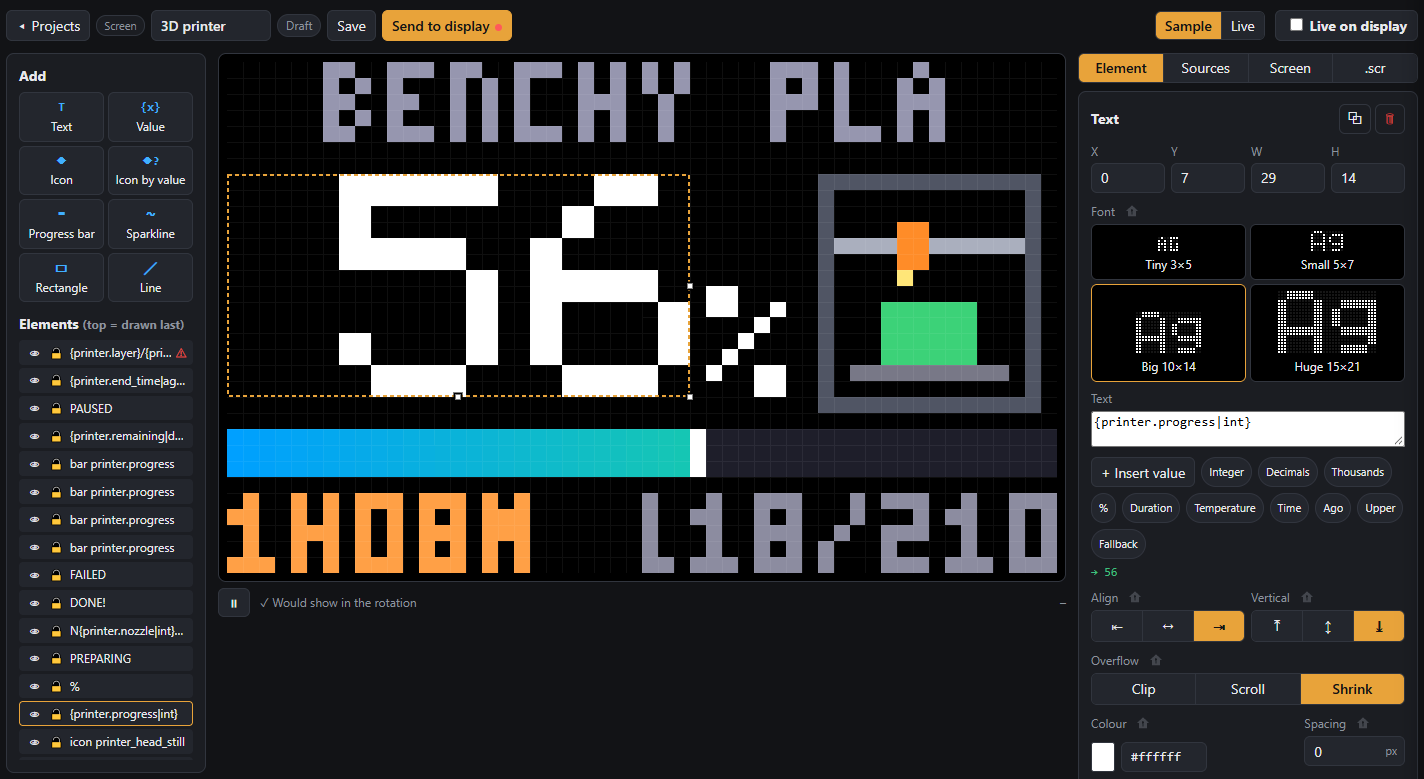
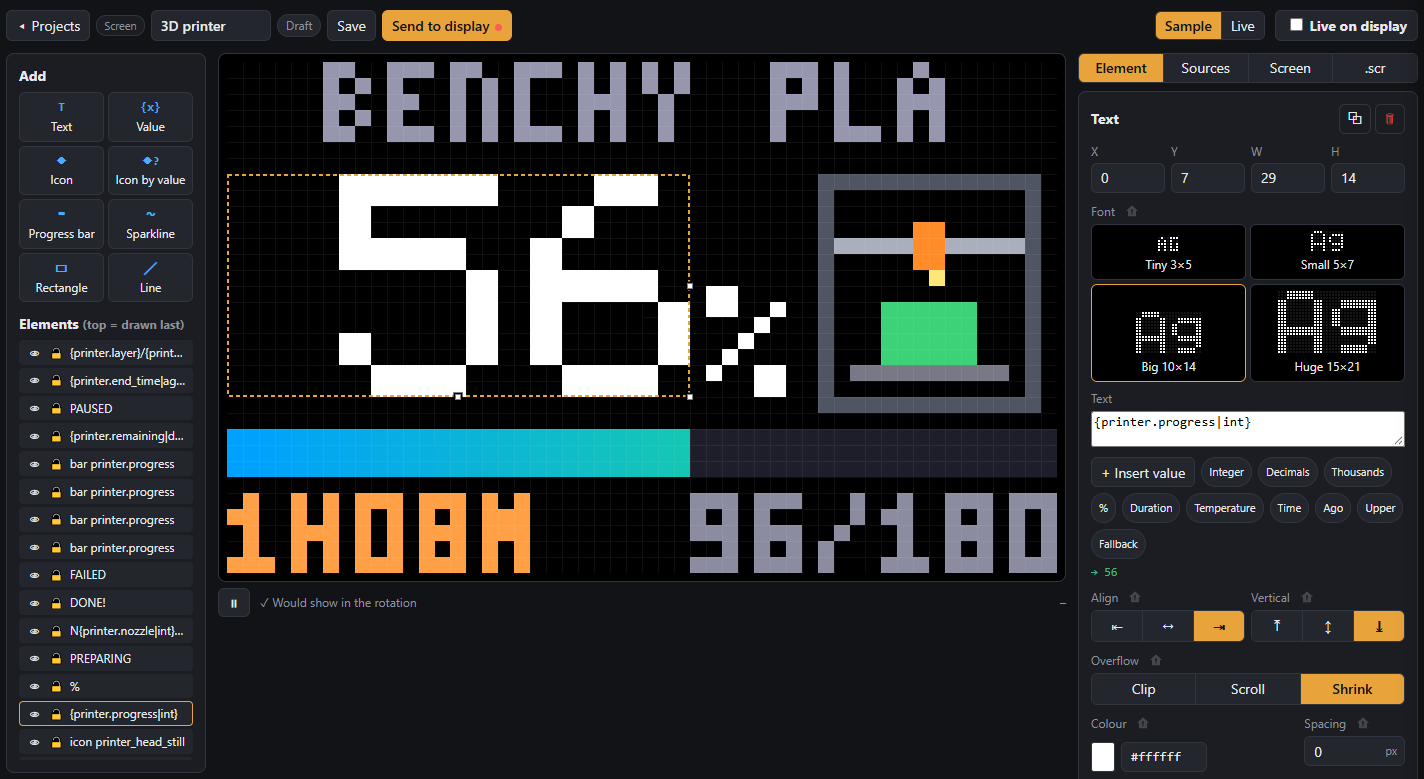
Docs: screenshots without warnings or a no-HA notice
- Hero shot: layer 96/180 fits its box, so no element is flagged.
- Sources: the 3D printer's bindings (sensor states and an attribute, generic
  entity ids), cropped to the value cards.

diff --git a/README.md b/README.md
@@ -33,15 +33,15 @@ broker and Home Assistant for any number of displays. You get:
 screens, exposing settings, animations, icons and playlists.
 
 ### Screenshots
-**Screen editor**: the 3D printer example mid-print, with sample values. Elements on the left, the 52×32 preview in
+**Screen editor**: the 3D printer example mid-print (56 %, layer 96 of 180), with sample values. Elements on the left, the 52×32 preview in
 the middle (the print head rises as the part grows), the selected element's settings on the right.
 
 <img src="docs/img/screen-editor.png" alt="Screen editor: a 3D printer screen at 56 % with the print name, a printer drawing, a progress bar, time left and layers" width="900">
 
-**Sources**: each value the screen uses, bound to Home Assistant (here, to the current member of a group of tickers),
+**Sources**: each value the 3D printer screen uses, bound to a Home Assistant entity's state or one of its attributes,
 with a sample for the preview.
 
-<img src="docs/img/sources.png" alt="Sources tab: values bound to a group's attributes, each with a sample" width="340">
+<img src="docs/img/sources.png" alt="Sources tab: printer values bound to sensor states and an attribute, each with a sample" width="330">
 
 **Animation editor**: layers, frames, motion and opacity, with the colour palette and scene controls on the right.
 

diff --git a/docs/GUIDE.md b/docs/GUIDE.md
@@ -79,7 +79,7 @@ Screens need pixeld-h6631 with screen support.
 
 ## Binding data: the Sources tab
 
-![The Sources tab with group bindings](img/sources.png)
+![The Sources tab: the 3D printer's values bound to states and an attribute](img/sources.png)
 
 **Sources** binds Home Assistant entities to the named values a screen uses. A name like `market.price` can appear
 in text, colours and conditions, and updates when the entity changes. Every name the screen uses is listed:
